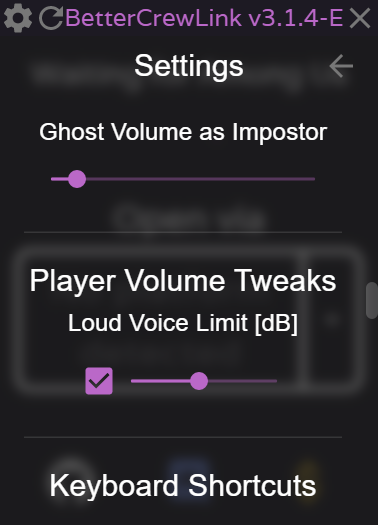
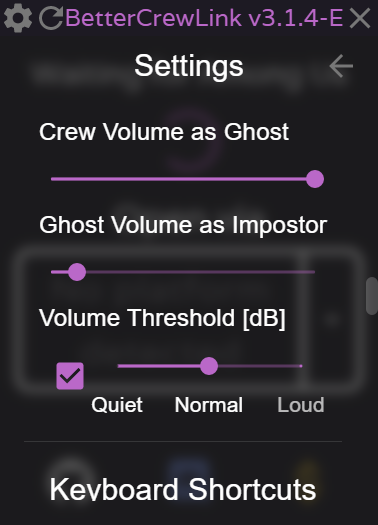
updated UI to be a bit more user-friendly

diff --git a/src/renderer/settings/Settings.tsx b/src/renderer/settings/Settings.tsx
@@ -796,22 +796,16 @@ const Settings: React.FC<SettingsProps> = function ({ t, open, onClose }: Settin
 							/>
 						</Grid>
 					</Grid>
-				</div>
-				<Divider />
-				{/* TODO: Add localization */}
-				<Typography variant="h6">
-					{'Player Volume Tweaks'}
-				</Typography>
-				<div>
+
 					<Typography id="input-slider" gutterBottom>
 						{/* TODO: Add localization */}
-						{'Loud Voice Limit [dB]'}
+						{'Volume Threshold [dB]'}
 					</Typography>
 					<Grid container spacing={2}>
 						<Grid item xs={3}>
 							<Checkbox
-								checked={settings.normalizeVoiceVolumesEnabled}
-								onChange={(_, checked: boolean) => setSettings('normalizeVoiceVolumesEnabled', checked)}
+								checked={settings.limitVoiceVolumesEnabled}
+								onChange={(_, checked: boolean) => setSettings('limitVoiceVolumesEnabled', checked)}
 							/>
 						</Grid>
 						<Grid
@@ -825,19 +819,32 @@ const Settings: React.FC<SettingsProps> = function ({ t, open, onClose }: Settin
 						>
 							<Slider
 								size="small"
-								disabled={!settings.normalizeVoiceVolumesEnabled}
-								value={settings.loudnessDbThreshold}
+								disabled={!settings.limitVoiceVolumesEnabled}
+								value={settings.loudnessThreshold}
 								valueLabelDisplay="auto"
+								marks={[
+									{ value: -60, label: 'Quiet' },
+									{ value: -30, label: 'Normal' },
+									{ value:   0, label: 'Loud' },
+								]}
 								min={-60}
 								max={0}
 								step={1}
-								onChange={(_, newValue: number | number[]) => setSettings('loudnessDbThreshold', newValue as number)}
+								onChange={(_, newValue: number | number[]) => setSettings('loudnessThreshold', newValue as number)}
 								aria-labelledby="input-slider"
 							/>
 						</Grid>
 					</Grid>
 				</div>
 				<Divider />
+				{/* TODO: Add localization */}
+				{/* <Typography variant="h6">
+					{'Custom Voice Tweaks'}
+				</Typography>
+				<div>
+
+				</div>
+				<Divider /> */}
 				<Typography variant="h6">{t('settings.keyboard.title')}</Typography>
 				<Grid container spacing={1}>
 					<Grid item xs={6}>

diff --git a/src/renderer/Voice.tsx b/src/renderer/Voice.tsx
@@ -1247,7 +1247,7 @@ const Voice: React.FC<VoiceProps> = function ({ t, error: initialError }: VoiceP
 					volumeLimiterWorklet.port.postMessage({
 						type: 'updateParameters',
 						...{
-							threshold: settings.loudnessDbThreshold
+							threshold: settings.loudnessThreshold
 						}
 					});
 
@@ -1444,20 +1444,20 @@ const Voice: React.FC<VoiceProps> = function ({ t, error: initialError }: VoiceP
 				handledPeerIds.push(peerId);
 
 				// NOTE: Not necessary to set settings on every update but cheaper than useEffect
-				if (settings.normalizeVoiceVolumesEnabled) {
+				if (settings.limitVoiceVolumesEnabled) {
 					audio.volumeLimiter.port.postMessage({
 						type: 'updateParameters',
 						...{
-							threshold: settings.loudnessDbThreshold
+							threshold: settings.loudnessThreshold
 						}
 					});
 				}
 
 				// Only apply volume thresholding accordingly if client settings don't match peer settings
-				if (settings.normalizeVoiceVolumesEnabled && !audio.volumeNormApplied) {
+				if (settings.limitVoiceVolumesEnabled && !audio.volumeNormApplied) {
 					audio.volumeNormApplied = true;
 					applyEffect(audio.gain, audio.volumeLimiter, audio.destination, player);
-				} else if (!settings.normalizeVoiceVolumesEnabled && audio.volumeNormApplied) {
+				} else if (!settings.limitVoiceVolumesEnabled && audio.volumeNormApplied) {
 					audio.volumeNormApplied = false;
 					restoreEffect(audio.gain, audio.volumeLimiter, audio.destination, player);
 				}

diff --git a/src/common/ISettings.d.ts b/src/common/ISettings.d.ts
@@ -26,8 +26,8 @@ export interface ISettings {
 	microphoneGainEnabled: boolean;
 	micSensitivity: number;
 	micSensitivityEnabled: boolean;
-	normalizeVoiceVolumesEnabled: boolean;
-	loudnessDbThreshold: number;
+	limitVoiceVolumesEnabled: boolean;
+	loudnessThreshold: number;
 	mobileHost: boolean;
 	vadEnabled: boolean;
 	hardware_acceleration: boolean;

diff --git a/src/renderer/settings/SettingsStore.tsx b/src/renderer/settings/SettingsStore.tsx
@@ -184,11 +184,11 @@ export const SettingsStore = new Store<ISettings>({
 			type: 'boolean',
 			default: false,
 		},
-		normalizeVoiceVolumesEnabled: {
+		limitVoiceVolumesEnabled: {
 			type: 'boolean',
 			default: false,
 		},
-		loudnessDbThreshold: {
+		loudnessThreshold: {
 			type: 'number',
 			default: -32,
 		},

diff --git a/README.md b/README.md
@@ -1,32 +1,16 @@
-# BetterCrewLink - Anti Mic Spammer Edition (Beta)
+# BetterCrewLink - Anti Mic Spammer (AMS) Edition
 
 ## :arrow_down_small: Download Link :arrow_down_small:
 
-Installer Link: https://github.com/tejashah88/BetterCrewLink/releases/download/v3.1.4-E/Better-CrewLink.Setup.3.1.4-E_20251108.exe
+Installer Link: https://github.com/tejashah88/BetterCrewLink-AMS/releases/download/3.1.4-E2/Better-CrewLink.Setup.3.1.4-E2_20251114.exe
 
 ## Introduction
 
-This is a modded version of BetterCrewLink by OhMyGuus that adds voice volume normalization: it softens loud voices (to protect against mic spammers). If you just want the regular version of BetterCrewLink, please go here: https://github.com/OhMyGuus/BetterCrewLink.
+This is a modded version of BetterCrewLink by OhMyGuus that adds volume thresholding: any loud voices that exceed a volume limit are softened while normal voices are unaffected. A decent solution if you despise people yelling into their mics and numbing your ears. If you just want the regular version of BetterCrewLink, please go here: https://github.com/OhMyGuus/BetterCrewLink.
 
-To use it, go to Settings (the :gear: icon on top-left), scroll down to "Player Volume Tweaks" and enable it. The slider adjusts the maximum incoming volume from the other players in decibels (dB). Refer to the chart below for a [quick conversion chart](#decibel-to-volume-conversion-chart) between decibels and volume amount.
+To use it, go to Settings (the :gear: icon on top-left), scroll down to "Volume Threshold \[dB\]" and enable it. The slider adjusts the maximum incoming volume from the other players in decibels \[dB\]. As a note, this setting is subject to your PC's volume setting, so double check that before adjusting the slider.
 
-![Settings preview for volume normalization](docs/settings-preview.png)
-
-## Decibel to Volume Conversion Chart
-
-| Decibels (dB) | Volume (%) |
-| ------------: | ---------: |
-|             0 |     100.0% |
-|            -6 |      50.0% |
-|           -12 |      25.0% |
-|           -18 |      12.5% |
-|           -24 |       6.3% |
-|           -30 |       3.2% |
-|           -36 |       1.6% |
-|           -42 |       0.8% |
-|           -48 |       0.4% |
-|           -54 |       0.2% |
-|           -60 |       0.1% |
+![Settings preview for volume thresholding](docs/settings-preview.png)
 
 ## How does it work
 
